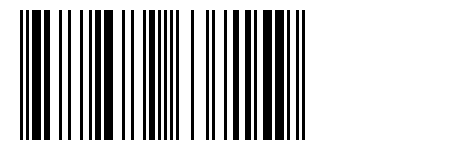
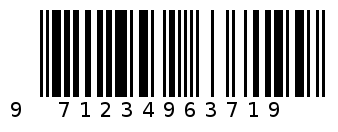
Renderer improved. Result class added.

diff --git a/src/barcode/BarcodeRenderer.java b/src/barcode/BarcodeRenderer.java
@@ -1,40 +1,85 @@
 package barcode;
 
 import java.awt.Color;
+import java.awt.Font;
 import java.awt.Graphics2D;
+import java.awt.RenderingHints;
 import java.awt.image.BufferedImage;
 import java.io.File;
 import java.io.IOException;
 
 import javax.imageio.ImageIO;
 
+/**
+ * Renders a barcode.
+ * 
+ * @author berthold
+ *
+ */
 public class BarcodeRenderer {
-	
-private static final int BAR_WIDTH=3;
-private static final int WIDTH=BAR_WIDTH*150;
-private static final int HEIGHT=WIDTH/3;
 
-	public static void draw (String barcodeBinary) {
-		BufferedImage barcode = new BufferedImage(WIDTH,HEIGHT, BufferedImage.TYPE_INT_ARGB);
+	//
+	// The canvas.
+	//
+	private static final int BAR_WIDTH = 3;
+	private static final int BORDER_WIDTH = 10;
+	private static final int LEFT_BORDER = 30;
+	private static final int TEXT_Y_OFFSET=20;
+	private static final int TEXT_HEIGHT=20;
+	private static final int BOTTOM_BORDER = 5+TEXT_HEIGHT;
+	private static final int WIDTH = BAR_WIDTH * 96 + 2 * BORDER_WIDTH + LEFT_BORDER;
+	private static final int HEIGHT = WIDTH / 3 + 2 * BORDER_WIDTH;
+	private static final int BAR_HEIGHT = HEIGHT - 2 * BORDER_WIDTH - BOTTOM_BORDER;
+
+	private static int X = BORDER_WIDTH + LEFT_BORDER;
+	private static int Y = BORDER_WIDTH;
+
+	/**
+	 * Draws a barcode.
+	 * 
+	 * @param barcodeResult A object of type {@link Result}
+	 */
+	public static void draw(Result barcodeResult) {
+		BufferedImage barcode = new BufferedImage(WIDTH, HEIGHT, BufferedImage.TYPE_INT_ARGB);
 		Graphics2D b = barcode.createGraphics();
 
-		Color color = new Color(255,255,255);
+		Color color = new Color(255, 255, 255);
 		b.setColor(color);
-		b.fillRect (0, 0, WIDTH, HEIGHT);
-		
-		color = new Color(0,0,0);
+		b.fillRect(0, 0, WIDTH, HEIGHT);
+
+		color = new Color(0, 0, 0);
 		b.setColor(color);
-		
-		int x=20;
-		int barWidth=BAR_WIDTH;
-		for (int i=0;i<barcodeBinary.length();i++) {
-			String digit=barcodeBinary.substring(i,i+1);
-			System.out.print(digit);
+
+		b.setRenderingHint(RenderingHints.KEY_ANTIALIASING, RenderingHints.VALUE_ANTIALIAS_ON);
+		b.setFont(new Font(b.getFont().getFontName(), Font.PLAIN, TEXT_HEIGHT));
+
+		//
+		// First digit is for the type of barcode.
+		//
+		int digitNumber = 0;
+		b.drawString(barcodeResult.getDecimalDigitAtIndex(digitNumber) + "", X - LEFT_BORDER, Y + BAR_HEIGHT + 20);
+
+		//
+		// Draw bars, each at a time...
+		//
+		int barWidth = BAR_WIDTH;
+		int c = 0;
+		digitNumber++;
+		for (int i = 0; i < barcodeResult.getBarcodeBinary().length(); i++) {
+			String digit = barcodeResult.getBarcodeBinary().substring(i, i + 1);
+			c++;
+			if (c == 7) {
+				int d = barcodeResult.getDecimalDigitAtIndex(digitNumber);
+				if (d != 666)
+					b.drawString(d + "" + "", X, Y + BAR_HEIGHT + TEXT_Y_OFFSET);
+				digitNumber++;
+				c = 0;
+			}
 			if (digit.equals("1"))
-				b.fillRect (x, 10, barWidth, HEIGHT-20);
-			x=x+barWidth;
+				b.fillRect(X, Y, barWidth, BAR_HEIGHT);
+			X = X + barWidth;
 		}
-		
+
 		File outputfile = new File("generated_barcode.png");
 		try {
 			ImageIO.write(barcode, "png", outputfile);
@@ -42,6 +87,5 @@ private static final int HEIGHT=WIDTH/3;
 			// TODO Auto-generated catch block
 			e.printStackTrace();
 		}
-
 	}
 }

diff --git a/src/barcode/Encode.java b/src/barcode/Encode.java
@@ -4,9 +4,9 @@ package barcode;
  * Collection of methods to generate the binary representations of various ean
  * barcodes.
  * 
- * TODO: MOE CONSTANTS TO A SEPERATE FILE. ADD A CLASS REPRESENTING THE RESULT WHICH
- * CONTAINS THE RAW BINARY OF THE VARIOUS CODES AND THE PROTOCOL GENERATED TO PROVIDE
- * BOTH, A MACHINE AND A HUMAN READABLE FORM..... 
+ * TODO: MOE CONSTANTS TO A SEPERATE FILE. ADD A CLASS REPRESENTING THE RESULT
+ * WHICH CONTAINS THE RAW BINARY OF THE VARIOUS CODES AND THE PROTOCOL GENERATED
+ * TO PROVIDE BOTH, A MACHINE AND A HUMAN READABLE FORM.....
  * 
  * @author Berthold
  *
@@ -19,7 +19,8 @@ public class Encode {
 	public static final int ISBN = 9;
 	public static final String SCEME_SEQUENCE_ISBN = "XABBABA"; // First X=> no sceme necessary....
 
-	public static final String INVALID_SEQUENCE = "xxxxxx";
+	public static final boolean ERROR = true;
+	public static final boolean NO_ERROR = false;
 
 	/**
 	 * Encodes an arbitrary sequence of integers into a valid 13- digit ean code.
@@ -30,31 +31,37 @@ public class Encode {
 	 * @param code A valid string containing a valid sequence of 12 integers to be
 	 *             encoded into an ean code.
 	 * 
-	 * @return A string containing the binary representation of the encoded ean
-	 *         code.
+	 * @return A object of the type {@Link Result}.
 	 */
-	public static String doEncoding(String code) {
+	public static Result doEncoding(String code) {
 		StringBuilder binary = new StringBuilder(); // Raw binary of the code.
 		StringBuilder protocol = new StringBuilder(); // Human readable form of the encoded code.
 
 		String scemeSequence;
 
 		//
-		// First digit is for the encoding sceme
+		// Check parameters.
+		//
+		if (code.length() < 12) {
+			protocol.append("Invalid number of digits for type of barcode given. Aborded!\n");
+			Result r = new Result("", code,protocol.toString(), ERROR);
+			return r;
+		}
+
+		//
+		// Check for type of code and set encoding scheme accordingly..
 		//
 		int firstDigit = Integer.valueOf(code.substring(0, 1));
-
-		if (code.length() < 12)
-			return INVALID_SEQUENCE;
-
+		
 		if (firstDigit == ISBN) {
 			scemeSequence = SCEME_SEQUENCE_ISBN;
 			protocol.append("Generating ISBN...\n\n");
 		} else {
 			protocol.append("No valid encoding sceme for an ean passed. Aborded.\n");
-			return INVALID_SEQUENCE;
+			Result r = new Result("", code,protocol.toString(), ERROR);
+			return r;
 		}
-
+			
 		//
 		// Set left boundary.
 		//
@@ -109,8 +116,10 @@ public class Encode {
 
 		protocol.append("Binary:\n" + binary);
 
-		System.out.println(protocol);
-
-		return binary.toString();
+		// 
+		// Generate final result and return home...
+		//
+		Result r = new Result(binary.toString(), code,protocol.toString(), NO_ERROR);
+		return r;
 	}
 }

diff --git a/src/barcode/Result.java b/src/barcode/Result.java
@@ -1,0 +1,59 @@
+package barcode;
+
+/**
+ * This constitutes a result standard result for each of the various methods
+ * provided.
+ */
+public class Result {
+
+	private String barcodeBinary; // Binary representation of the barcode.
+	private String barcodeDecimal; // Decimal representation of the barcode.
+	private String protocol; // Description of the result in human readable form.
+	public boolean hasError; // True if no valid result could be generated.
+
+	/**
+	 * 
+	 * @param barcodeBinary
+	 * @param protocol
+	 * @param hasError
+	 */
+	public Result(String barcodeBinary, String barcodeDecimal, String protocol, boolean hasError) {
+		super();
+		this.barcodeBinary = barcodeBinary;
+		this.barcodeDecimal = barcodeDecimal;
+		this.protocol = protocol;
+		this.hasError = hasError;
+	}
+
+	/**
+	 * Binary representation of the barcode.
+	 * 
+	 * @return {@link String} object containing the barcode binary.
+	 */
+	public String getBarcodeBinary() {
+		return barcodeBinary;
+	}
+
+	/**
+	 * Decimal digit of the barcode.
+	 * 
+	 * @param index Which digit (1th, 3th etc?).
+	 * @return A decimal digit found at the specified index. If index passed does
+	 *         exceed the length of the barcode, an invalid number containing more
+	 *         then 1 digit is returned.
+	 */
+	public int getDecimalDigitAtIndex(int index) {
+		if (index> barcodeDecimal.length()-1)
+			return 666;
+		return Integer.valueOf(barcodeDecimal.substring(index, index + 1));
+	}
+
+	/**
+	 * A human readable description of the result.
+	 * 
+	 * @return
+	 */
+	public String getProtocol() {
+		return protocol;
+	}
+}

diff --git a/src/Main.java b/src/Main.java
@@ -4,6 +4,7 @@ import barcode.Decode;
 import barcode.Checksum;
 import barcode.Encode;
 import barcode.BarcodeRenderer;
+import barcode.Result;
 
 public class Main {
 
@@ -27,9 +28,11 @@ public class Main {
 		
 		// Encoding demo
 		
-		String code=Encode.doEncoding("978888963715");
+		Result code=Encode.doEncoding("971234963719");
 	
 		BarcodeRenderer.draw(code);
+		
+		System.out.println(code.getProtocol());
 
 	}
 
